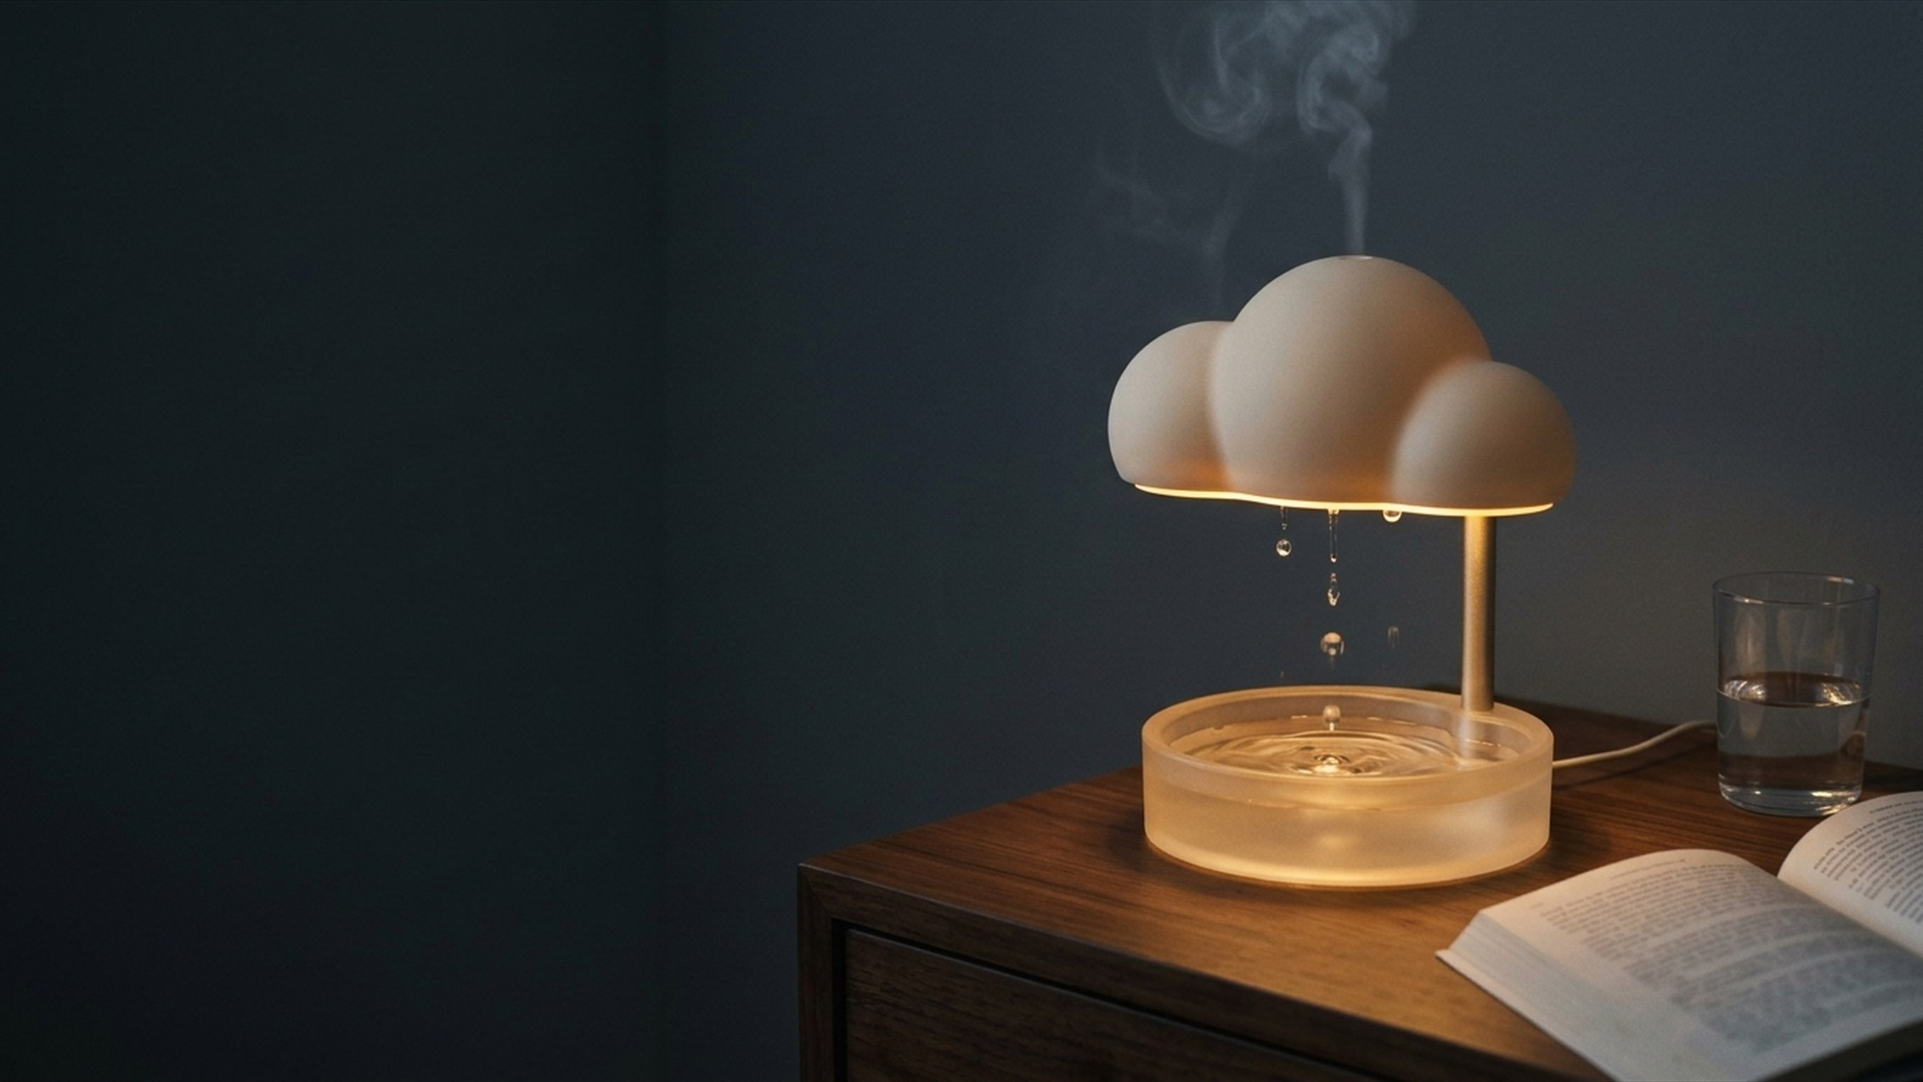
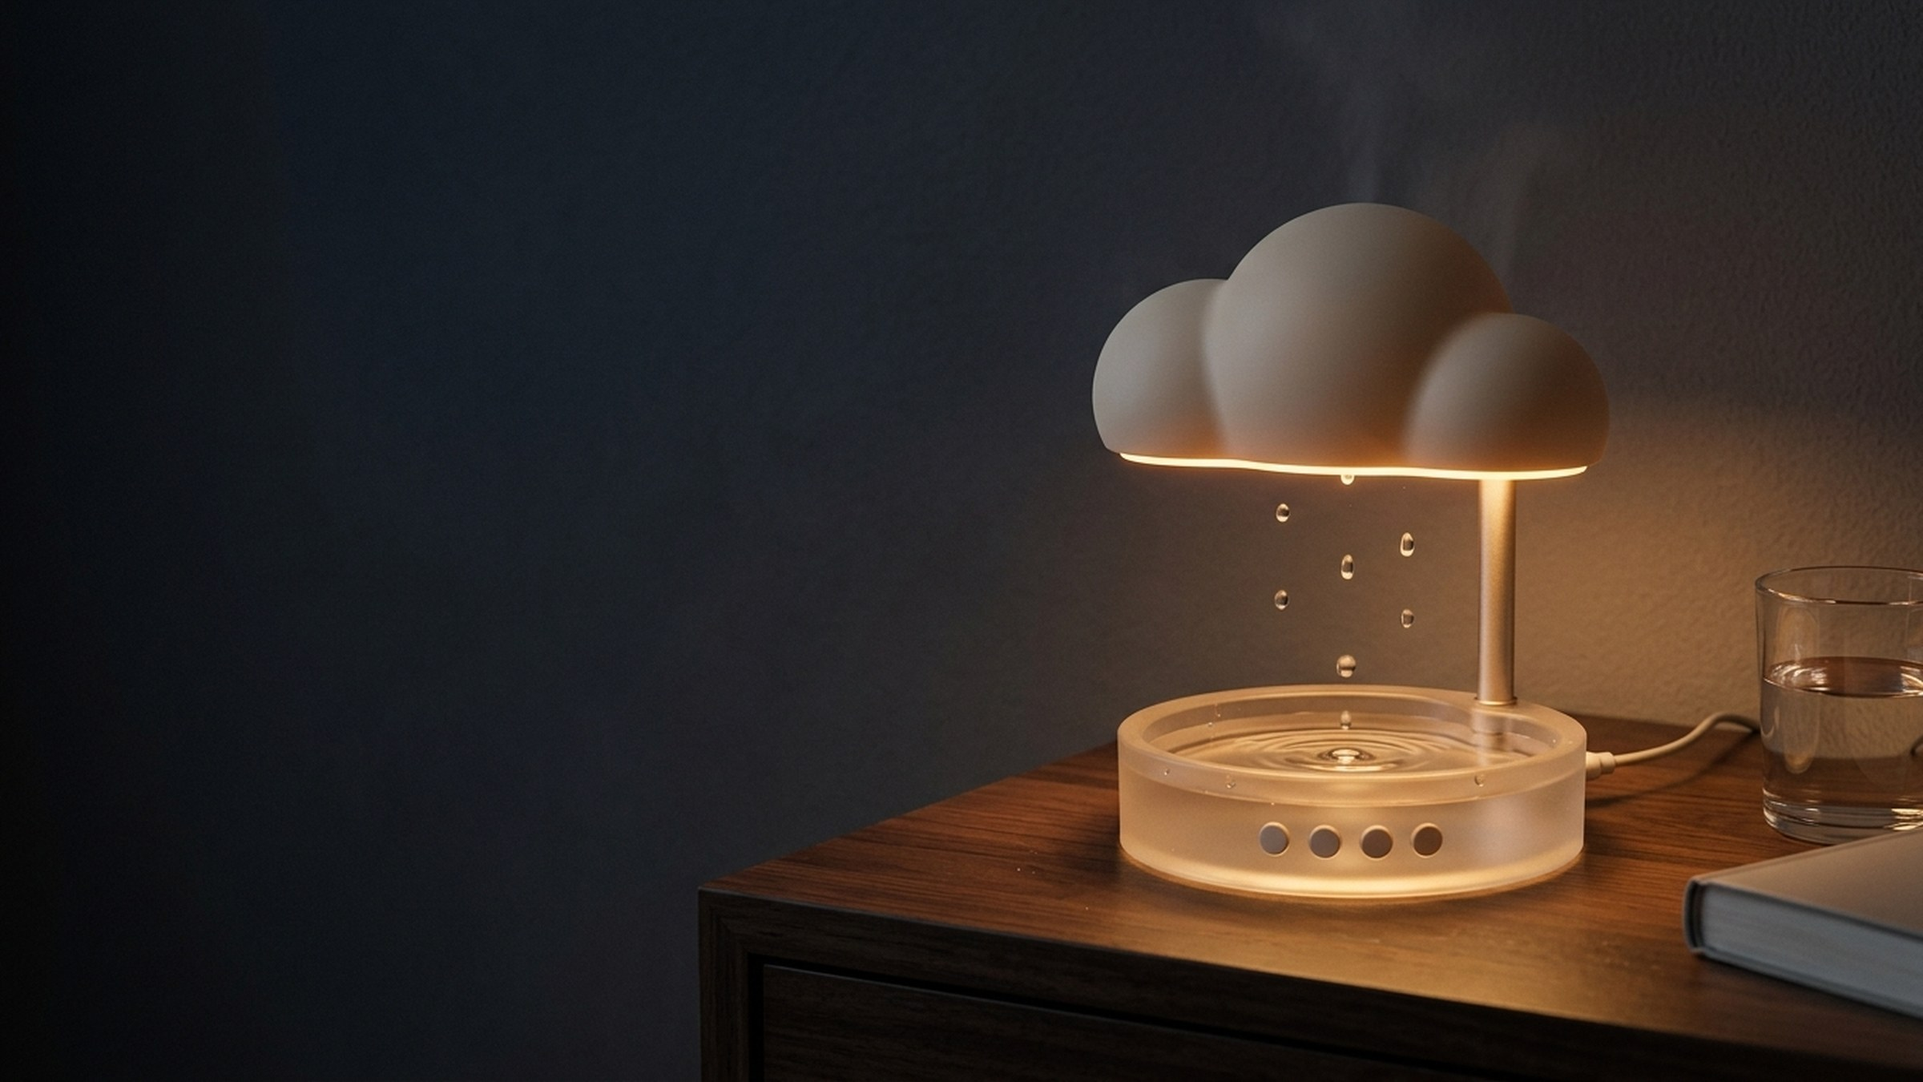
Realistic v2 product photography across the site (Gemini), 4-button base everywhere

diff --git a/site/src/assets/photos/PROMPTS.md b/site/src/assets/photos/PROMPTS.md
@@ -2,16 +2,29 @@
 
 ## Tooling, Model & Current Pass Status (v2 Realism Pass — 2026-11-26)
 
-- **Image generation tool/model**: Antigravity `generate_image` (`gemini-3.1-flash-image`).
+- **Image generation tool/model**: Antigravity `generate_image` (`gemini-3.1-flash-image`) via the `image-generator` subagent.
 - **Video generation tool (Part B)**: **Not available** in this environment (no Veo or other video-generation tool/MCP server is present; `ffmpeg` is installed, so compression/poster extraction would be possible once raw video exists, but video generation itself cannot be run here).
-- **Backup**: All original v1 images (`desk-day.jpg`, `evening-shelf.jpg`, `glow-studio.jpg`, `hero-night.jpg`, `in-the-box.jpg`, `og.jpg`, `pack-shot.jpg`, `rain-macro.jpg`) were copied intact into `photos/_v1/` before any overwrite.
-- **v2 Completion & Blocker**:
-  - **Completed**: `pack-shot.jpg` (1600×1600, ≤300 KB sRGB progressive JPEG, Lanczos-upscaled from 1024×1024 `gemini-3.1-flash-image` output, anchored on `_v1/pack-shot.jpg`). Adds realistic bead-blasted plastic micro-grain, hairline underside cloud seam, machined stem collar, curved water meniscus, stray rim droplets, organic coiled-memory USB-C cable bend with white strain-relief boot, and **4 subtle blank flush circular matte warm-ivory tactile buttons** centered low on the front edge of the frosted base.
-  - **Blocked by image-model quota**: After generating `pack-shot.jpg` v2, all 9 remaining v2 scene generations (`hero-night.jpg`, `desk-day.jpg`, `rain-macro.jpg`, `evening-shelf.jpg`, `glow-studio.jpg`, `hand-button.jpg`, `detail-stem.jpg`, `packaging.jpg`, `scale-hand.jpg`) immediately returned `429 RESOURCE_EXHAUSTED` / `QUOTA_EXHAUSTED` on `gemini-3.1-flash-image` (reported quota reset: `2026-11-26T03:27:02Z` / `13:27:02+10:00`). Accordingly, `hero-night.jpg`, `desk-day.jpg`, `rain-macro.jpg`, `evening-shelf.jpg`, `glow-studio.jpg`, and `og.jpg` currently remain their v1 files, and the 4 new files (`hand-button.jpg`, `detail-stem.jpg`, `packaging.jpg`, `scale-hand.jpg`) could not be generated yet.
+- **Backup**: All original v1 images (`desk-day.jpg`, `evening-shelf.jpg`, `glow-studio.jpg`, `hero-night.jpg`, `in-the-box.jpg`, `og.jpg`, `pack-shot.jpg`, `rain-macro.jpg`) remain untouched in `photos/_v1/`.
+- **v2 Completion & Blocker (Pass 2 — 2026-11-26 13:45+10:00)**:
+  - **Completed & LIVE (8 of 12 files — all existing site photos upgraded to v2)**:
+    - `pack-shot.jpg` (1600×1600, 238,800 B / 233.2 KiB) — canonical v2 product anchor.
+    - `glow-studio.jpg` (1600×1600, 272,579 B / 266.2 KiB) — anchored on BOTH `_v1/glow-studio.jpg` (framing lock) and `pack-shot.jpg` (v2 design/realism); verified ≤0.06% max bounding-box delta across cloud/underside/basin against `_v1/glow-studio.jpg` for the interactive canvas overlay.
+    - `hero-night.jpg` (2400×1350, 292,257 B / 285.4 KiB) — anchored on v2 `pack-shot.jpg`.
+    - `og.jpg` (1200×630, 210,268 B / 205.3 KiB) — bottom-weighted (`bias = 0.72`) 1.905:1 crop of v2 `hero-night.jpg`.
+    - `desk-day.jpg` (1600×1200, 292,414 B / 285.6 KiB) — anchored on v2 `pack-shot.jpg`.
+    - `rain-macro.jpg` (1200×1500, 289,276 B / 282.5 KiB) — generated 3:4 portrait, cropped (`v_bias = 0.58`) to 4:5 and Lanczos-upscaled to 1200×1500.
+    - `evening-shelf.jpg` (1600×1200, 286,920 B / 280.2 KiB) — anchored on v2 `pack-shot.jpg`.
+    - `in-the-box.jpg` (1600×1200, 292,996 B / 286.1 KiB) — anchored on v2 `pack-shot.jpg`, showing the 4 blank flush buttons on the frosted basin rim and 100% blank card.
+  - **Still Missing — Blocked by Image Quota (4 NEW shots)**:
+    - `hand-button.jpg` (1600×1200)
+    - `detail-stem.jpg` (1200×1500)
+    - `packaging.jpg` (1600×1200)
+    - `scale-hand.jpg` (1600×1200)
+    - All 4 returned `429 Too Many Requests / RESOURCE_EXHAUSTED` (`QUOTA_EXHAUSTED`) on `gemini-3.1-flash-image`. Reported quota reset timestamp: **`2026-11-26T08:27:02Z`** (**`18:27:02+10:00`** local time).
 
 ---
 
-## v2 Realism Pass — Completed Anchor
+## v2 Realism Pass — Final Prompts (Completed & LIVE)
 
 ### `pack-shot.jpg` (1600×1600 — v2 LIVE)
 
@@ -25,22 +38,59 @@
 > - Cable: Thin matte off-white USB-C power cable plugged into the back-right with a small white strain-relief collar, trailing rightward with realistic slight wave/memory bends from having been coiled.
 > - Camera & lighting: 35mm full-frame camera, 90mm f/5.6 macro lens, asymmetric diffused softbox from upper-left with gentle right fill bounce, subtle caustic light transmission and layered contact shadow on matte light-grey paper sweep with faint paper tooth, subtle organic film grain, LED OFF, no droplets/mist, strictly NO text/logos/icons/watermarks.
 
+### `glow-studio.jpg` (1600×1600 — v2 LIVE)
+
+- **Reference images**: `_v1/glow-studio.jpg` (primary framing/geometry lock) + `pack-shot.jpg` (v2 materials & 4 front buttons).
+- **Post-processing**: Lanczos 1024×1024 → 1600×1600, progressive sRGB JPEG (`q=90, subsampling=0`, 272,579 B).
+- **Alignment check**: Max delta 0.06% across cloud, underside LED strip, and basin bounds vs `_v1/glow-studio.jpg`; light pool RGB `[96.4, 96.1, 96.5]` (neutral white), top-left background RGB `[20.5, 20.5, 20.5]`.
+
+> Generate a photorealistic 1:1 square studio product photograph transforming `_v1/glow-studio.jpg` while matching the exact product design and materials of v2 `pack-shot.jpg`. Preserve the EXACT camera angle, product scale, silhouette, and pixel position of `_v1/glow-studio.jpg` (cloud underside spanning x ≈ 27%–76% at y ≈ 44%, basin water surface at y ≈ 67%, single stem at back-right, white USB-C cable exiting right). Keep the exact 3-puff bead-blasted matte warm-ivory ABS cloud with hairline underside seam, single brushed-champagne stem with machined collar, frosted polycarbonate basin with curved meniscus, stray rim droplets, and centered row of 4 blank flush circular matte warm-ivory buttons on the front edge, plus white USB-C cable with strain-relief boot. Underside LED glow is ON in PURE NEUTRAL WHITE (4800K–5000K, zero warm/cool cast for CSS tinting). Replace v1's uniform vertical bead strings with only 5–7 sparse, irregular, separate clear water droplets falling naturally with subtle ~1/125s vertical motion blur and organic ripples. Replace v1's smoke plume with barely visible ultra-subtle cool vapor haze. Real matte near-black studio paper sweep (#0C0D10-ish) with soft circular neutral white light pool and subtle rim kickers, 90mm f/4 macro lens, organic sensor grain, strictly NO text/logos/watermarks/props.
+
+### `hero-night.jpg` (2400×1350 — v2 LIVE) & `og.jpg` (1200×630 — v2 LIVE)
+
+- **Reference image**: v2 `pack-shot.jpg`.
+- **Post-processing**: `hero-night.jpg` Lanczos 1376×768 → 2400×1350 (`q=88, subsampling=2`, 292,257 B); `og.jpg` bottom-weighted (`v_bias=0.72`) 1.905:1 crop from raw v2 hero → 1200×630 (`q=96, subsampling=0`, 210,268 B).
+
+> Photorealistic 16:9 widescreen nighttime bedroom hero photograph anchored on v2 `pack-shot.jpg` (exact 3-puff bead-blasted matte warm-ivory cloud + hairline seam, single back-right brushed-champagne stem + collar, shallow frosted basin with 4 blank flush circular front buttons, white USB-C cable with strain-relief boot). Product in the RIGHT third on a real open-pore dark walnut nightstand at compact bedside scale, beside a simple half-full clear water glass and soft out-of-focus plain paperback book corner (zero legible text) on the far right. ENTIRE LEFT HALF is deep, dark, cool charcoal/blue-grey shadowed roller-stippled bedroom wall completely uncluttered for headline typography. Warm ~2400K amber underside LED glow with natural inverse-square falloff, 4–7 sparse irregular separate clear water droplets with subtle ~1/125s vertical motion blur, organic concentric ripples, tiny rim droplets, faint dust on wood, ultra-subtle barely visible vapor haze (NO cigarette-smoke plume). 35mm full-frame 50mm f/1.8 ISO 1600, shallow DOF, organic low-light grain, strictly NO text/logos/people.
+
+### `desk-day.jpg` (1600×1200 — v2 LIVE)
+
+- **Reference image**: v2 `pack-shot.jpg`.
+- **Post-processing**: Lanczos 1200×896 → 1600×1200 (`q=90, subsampling=0`, 292,414 B).
+
+> Photorealistic 4:3 morning window-daylight lifestyle photograph anchored on v2 `pack-shot.jpg` (exact 3-puff bead-blasted matte warm-ivory cloud + hairline seam, single back-right brushed-champagne stem + collar, frosted basin with 4 blank flush circular front buttons, white USB-C cable). LED completely OFF; 5–7 sparse irregular separate falling clear water droplets with subtle ~1/125s vertical motion blur, organic ripples, tiny rim droplets and faint mineral line, barely visible backlit diffuse vapor haze (NO smoke plume). Natural lived-in apartment light-oak desk beside softly wrinkled sheer off-white linen window curtains, handmade stoneware coffee mug, unbranded closed silver-aluminum laptop edge (no logo), woven oatmeal linen notebook, and imperfect potted houseplant in matte pot. 35mm full-frame 50mm f/2.0, shallow DOF, organic film grain, strictly NO text/logos/people.
+
+### `rain-macro.jpg` (1200×1500 — v2 LIVE)
+
+- **Reference image**: v2 `pack-shot.jpg`.
+- **Post-processing**: Generated at 3:4 portrait (896×1200), vertically cropped (`v_bias=0.58`) to 4:5 and Lanczos-upscaled to 1200×1500 (`q=91, subsampling=0`, 289,276 B).
+
+> Photorealistic vertical portrait macro close-up anchored on v2 `pack-shot.jpg` framing the ~10 cm open space between the matte warm-ivory bead-blasted 3-puff cloud underside (fine micro-grain plastic + hairline seam + pinhole outlets) and the frosted polycarbonate basin rim (tiny stray water beads, faint mineral line). Soft-bokeh single brushed-champagne stem with collar at back-right. Sparse irregular separate clear water droplets mid-fall plus 1–2 clinging droplets detaching from the underside, organic concentric ripples and small realistic rebounding micro-splash (no sculptural CGI crown, no rigid pearl-necklace chains). Soft warm ~2400K amber underside LED glow against dark-warm creamy bokeh, whisper-faint vapor haze (NO smoke tendrils), 90mm f/2.8 macro, organic film grain, strictly NO text/logos/people.
+
+### `evening-shelf.jpg` (1600×1200 — v2 LIVE)
+
+- **Reference image**: v2 `pack-shot.jpg`.
+- **Post-processing**: Lanczos 1200×896 → 1600×1200 (`q=90, subsampling=0`, 286,920 B).
+
+> Photorealistic 4:3 candid dusk/blue-hour living-room lifestyle photograph anchored on v2 `pack-shot.jpg` on a floating solid-oak shelf mounted on a textured warm-grey lime/plaster wall beside a cool deep-twilight window on the left. Exact 3-puff matte ivory cloud + hairline seam, single back-right champagne stem + collar, frosted basin with 4 blank flush front buttons, white USB-C cable tucked back-right. Muted realistic pastel lavender underside LED glow (not neon purple) with natural inverse-square falloff onto the plaster wall, sparse separate falling clear water droplets with subtle ~1/125s motion blur, delicate organic ripples, tiny rim droplets, ultra-subtle vapor haze (NO smoke plume). Styled on right with handmade speckled matte stoneware cup and worn blank cloth-bound hardcover books (zero text/letters). 50mm f/2.0, authentic high-ISO dusk grain, strictly NO text/logos/people.
+
+### `in-the-box.jpg` (1600×1200 — v2 LIVE)
+
+- **Reference image**: v2 `pack-shot.jpg`.
+- **Post-processing**: Lanczos 1200×896 → 1600×1200 (`q=71, subsampling=2`, 292,996 B).
+
+> Photorealistic 4:3 overhead 90-degree flat-lay knolling photograph anchored on v2 `pack-shot.jpg` on flat softly creased pale cool-grey woven natural linen. Disassembled Mistlo components: (1) blank matte warm-ivory bead-blasted 3-puff cumulus cloud top, (2) empty dry frosted warm-ivory polycarbonate basin showing both the rear-right stem socket and the subtle row of 4 blank flush circular buttons along the front rim edge, (3) ONE single slim brushed-champagne anodized aluminum support stem with machined collar, (4) neatly coiled matte off-white USB-C cable with white plugs, (5) solid round heather-grey wool felt coaster with NO center hole, (6) slender wooden cleaning brush with fine white bristles, (7) 100% BLANK crisp off-white heavyweight matte folded paper card (zero printed text, letters, numbers, icons, or logos). Soft directional overhead studio daylight, realistic contact shadows, 50mm f/5.6, organic grain, strictly NO text/logos/watermarks.
+
 ---
 
-## v2 Realism Pass — Prepared Prompts (Pending `gemini-3.1-flash-image` Quota Reset at `2026-11-26T03:27:02Z`)
+## v2 Realism Pass — Pending Prompts (Blocked Until Quota Reset at `2026-11-26T08:27:02Z` / `18:27:02+10:00`)
 
-All 9 shots below are designed to anchor directly on the v2 `pack-shot.jpg` (keeping the exact 3-puff matte ivory cloud, hairline seam, back-right brushed-champagne stem + collar, frosted basin with 4 blank flush front buttons, and white USB-C cable) while fixing v1 CGI artifacts (replacing cigarette-smoke plumes with near-invisible diffuse cool vapor, replacing uniform vertical bead strings with sparse irregular 1/125s motion-blurred droplets, and adding real-world lighting falloff, dust, water spots, mineral line, and lens character):
+All 4 remaining NEW shots anchor on v2 `pack-shot.jpg`:
 
-1. **`hero-night.jpg` (2400×1350, 16:9)** — Product in RIGHT third on open-pore dark walnut nightstand at night, LEFT half dark roller-stippled charcoal/blue-grey bedroom wall completely empty for headline text. Warm ~2400K amber underside glow, 4–7 sparse irregular falling droplets with subtle 1/125s motion blur, natural ripples, ultra-subtle cool vapor haze (NO cigarette-smoke plume), tiny water spots on rim, subtle dust on wood, imperfect cable curve, clear half-full water glass + blurred unreadable paperback corner on far right, 50mm f/1.8 ISO 1600 low-light film grain.
-2. **`desk-day.jpg` (1600×1200, 4:3)** — Natural apartment window morning daylight through softly wrinkled sheer linen curtains on light-oak desk. LED OFF, sparse irregular falling drops with 1/125s motion blur, subtle ripples, tiny water spots/mineral line, barely visible backlit vapor (NO smoke plume), lived-in unbranded props (used stoneware mug, closed logo-free aluminum laptop edge, plain linen notebook, imperfect potted plant), 50mm f/2.0 shallow DOF & grain.
-3. **`rain-macro.jpg` (1200×1500, 4:5)** — 90mm f/2.8 macro framing the ~10 cm gap between cloud underside (micro-grain plastic + hairline seam) and frosted basin rim (tiny water beads, faint mineral line). Only 5–8 sparse irregular droplets mid-fall with authentic 1/125s vertical motion blur + 1–2 clinging droplets detaching from tiny pinhole outlets, organic ripples/subtle micro-splash, warm amber backlight, whisper-faint vapor glow (NO smoke tendrils), subtle fingerprint on soft-bokeh champagne stem.
-4. **`evening-shelf.jpg` (1600×1200, 4:3)** — Candid dusk/blue-hour living-room floating oak shelf beside cool twilight window on left. Muted realistic pastel lavender underside LED glow with natural falloff onto textured plaster wall, sparse 1/125s motion-blurred drops, delicate ripples, NO smoke plume, imperfect handmade stoneware ceramics and worn blank cloth hardcover books (zero legible text), 50mm f/2.0 high-ISO grain.
-5. **`glow-studio.jpg` (1600×1600, 1:1)** — Real matte near-black studio sweep (#0C0D10-ish) with PURE NEUTRAL WHITE (4800K–5000K, zero warm/cool cast for CSS tinting) underside LED glow, 5–7 sparse irregular 1/125s droplets, organic ripples, whisper-faint vapor (NO smoke plume), soft neutral circular light pool on matte sweep, subtle studio rim kickers separating cloud silhouette, 90mm f/4 macro with subtle sensor grain.
-6. **`og.jpg` (1200×630)** — To be derived directly via bottom-weighted 1.905:1 crop from v2 `hero-night.jpg`.
-7. **`hand-button.jpg` (1600×1200, 4:3 — NEW)** — Close-up 50mm f/2.0 lifestyle shot in late-afternoon window light + warm amber LED glow: natural adult human hand (anatomically accurate 5 fingers, real skin texture/pores/cuticles) entering from lower-left with index finger pressing one of the 4 small blank flush circular buttons on the lower front edge of the frosted basin on a walnut nightstand.
-8. **`detail-stem.jpg` (1200×1500, 4:5 — NEW)** — 90mm f/3.2 macro from rear-right 3/4 angle showing brushed-champagne stem with faint fingerprint smudge seating into machined collar on frosted basin, clear water meniscus + stray rim droplets + faint mineral line, and matte white USB-C plug/strain-relief plugged into the recessed rear-right port with cable curving naturally across oak/walnut grain.
-9. **`packaging.jpg` (1600×1200, 4:3 — NEW)** — 35mm f/2.8 sunlit tabletop unboxing shot (~38° angle): plain completely unbranded raw recycled-kraft corrugated box (ZERO text/logos/labels/barcodes) flipped open on warm oak table, showing the Mistlo cloud, frosted basin (4 blank buttons), brushed-champagne stem, and paper-tied white USB-C cable nested in a fibrous raw grey-beige moulded paper-pulp tray.
-10. **`scale-hand.jpg` (1600×1200, 4:3 — NEW)** — 35mm f/2.8 candid morning window-light bedroom nightstand shot placing the Mistlo (~18 cm cloud / ~14 cm basin / ~22 cm tall) next to a standard ~15 cm black-glass smartphone (blank off screen with subtle reflection/smudge, no logos) and a handmade ~9.5 cm stoneware coffee mug on dark walnut wood with unmade oatmeal linen blurred behind.
+1. **`hand-button.jpg` (1600×1200, 4:3 — NEW, PENDING)** — Close-up 50mm f/2.0 lifestyle shot in warm late-afternoon window light + soft ~2400K amber LED glow: anatomically accurate natural adult human hand (5 normal fingers, real skin pores/knuckles/cuticles/unadorned nails) entering from lower-left foreground with index fingertip gently pressing one of the 4 small blank flush circular matte warm-ivory buttons centered low on the front edge of the frosted basin (remaining 3 buttons clearly visible in their horizontal row) on an open-pore dark walnut nightstand; 4–6 sparse motion-blurred droplets, tiny rim beads, no smoke, no text/icons.
+2. **`detail-stem.jpg` (1200×1500, 4:5 — NEW, PENDING)** — 90mm f/3.2 macro detail photograph from rear-right 3/4 angle in soft side window daylight (LED OFF): fine brushed-champagne anodized aluminum stem with subtle fingerprint sheen seating cleanly into its machined collar on the frosted basin, curved clear water meniscus + 3–4 stray rim droplets + faint mineral waterline, and matte white USB-C plug/strain-relief boot seated in the recessed rear-right port with off-white cable curving naturally across walnut/oak wood grain; no text/logos/specs.
+3. **`packaging.jpg` (1600×1200, 4:3 — NEW, PENDING)** — 35mm f/2.8 sunlit tabletop unboxing photograph (~38° angle) on warm solid oak: plain 100% UNBRANDED raw recycled-kraft corrugated tuck-top box flipped open (strictly ZERO text/logos/labels/barcodes/recycling icons anywhere) with fibrous raw grey-beige moulded paper-pulp protective tray holding the Mistlo 3-puff cloud, frosted basin (4 blank buttons visible), single brushed-champagne stem, and kraft-paper-tied white USB-C cable cleanly in custom molded cavities.
+4. **`scale-hand.jpg` (1600×1200, 4:3 — NEW, PENDING)** — 35mm f/2.8 candid bright morning window-light bedroom nightstand shot showing Mistlo (~22 cm tall, ~18 cm cloud, ~14 cm basin, 4 blank front buttons, LED OFF) on open-pore dark walnut directly beside a standard ~15 cm black-glass smartphone (blank off screen with subtle reflection/smudge, zero logos/UI) and a handmade ~9.5 cm matte stoneware coffee mug for accurate real-world scale, with softly rumpled oatmeal linen bedding blurred behind; no smoke, no text/logos.
 
 ---
 

diff --git a/docs/STATUS.md b/docs/STATUS.md
@@ -10,8 +10,8 @@
 | 5a | Redesign: Gemini photoreal photos (8 shots, prompts in site/src/assets/photos/PROMPTS.md), new night/amber identity, glow picker | Gemini + Claude | ✅ live |
 | 5c | Redesign v3 "impact": research of award-winning interactive product sites | Gemini | ✅ `research/interactive-redesign.md`; hero = "Living Nightstand" (canvas rain + masked glow + opt-in sound), + day/night slider, sound lab, scroll anatomy, in-box hotspots + scale, state-synced buy pill, view transitions |
 | 5d | Realism pass on photos + AI video loops | Gemini | ⏸ pack-shot v2 done; other 9 shots blocked by Gemini image quota until 03:27 UTC (13:27 local). Auto-resume scheduled 13:35 local. No video tool available (ffmpeg present). |
-| 5e | Live interactive demo: real-time rain, light colors, mist, opt-in rain sound | Codex | 🔄 running |
-| 5f | Integrate research + assets + demo into v3, QA, deploy | Claude | ⏳ |
+| 5e | Live interactive demo: real-time rain, light colors, mist, opt-in rain sound | Codex | ✅ `site/src/demo/` |
+| 5f | v3 live: demo as hero, scroll-drawn anatomy, view transitions, buy bar mirrors choices; reveal = Gavin's AI marketing services + teaching pitch (LinkedIn CTA) | Claude | ✅ deployed; photo swap pending 5d |
 | 5b | GoatCounter code, Search Console + Bing verification, sitemap submit | Gavin + Claude | ⏳ |
 | 6 | Weekly results snapshot for portfolio | Claude | ⏳ |
 
